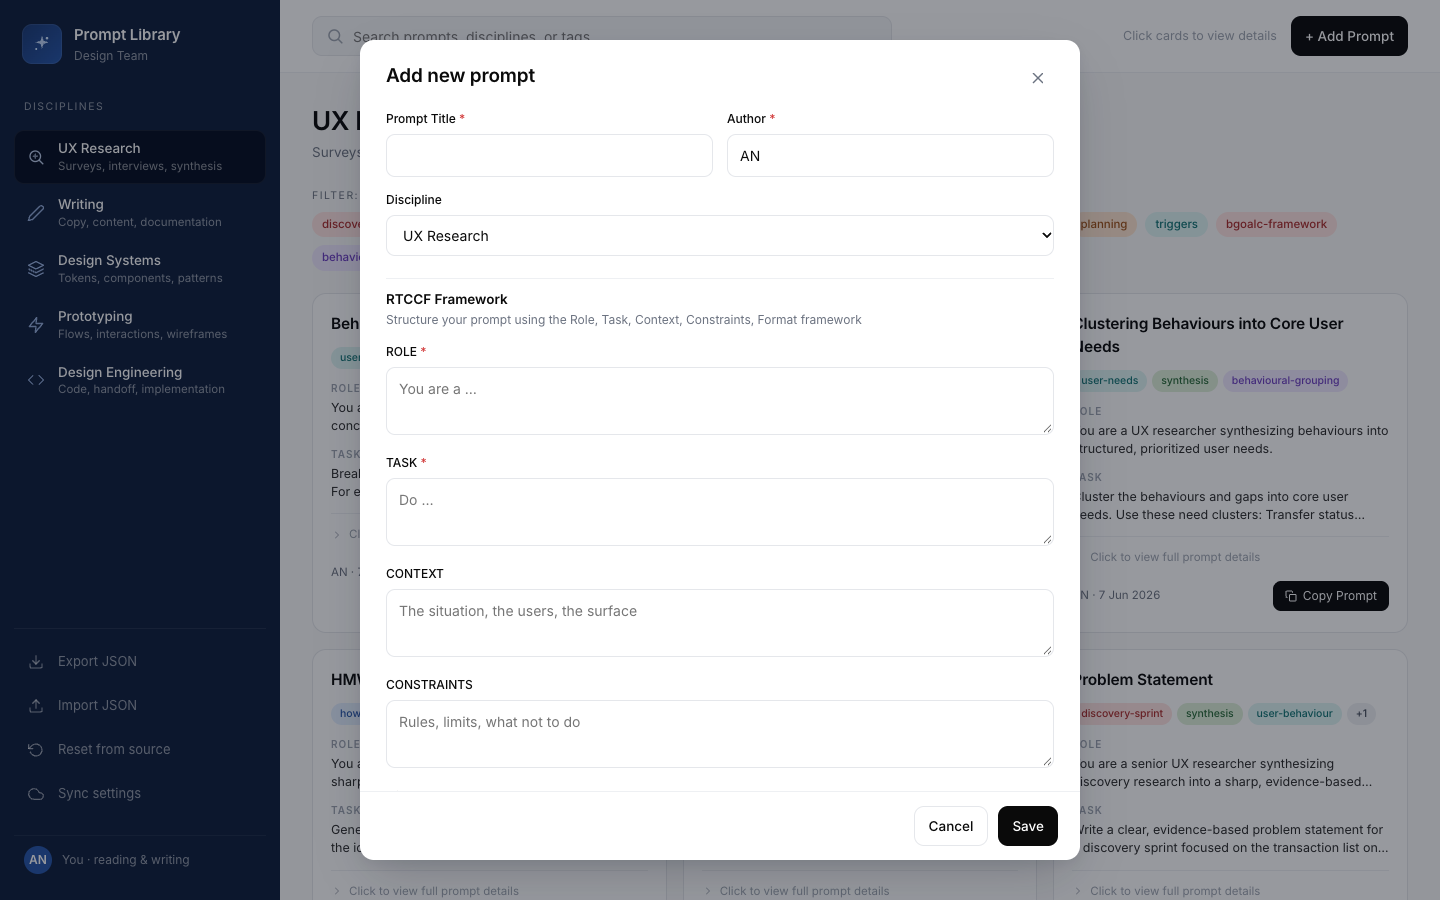
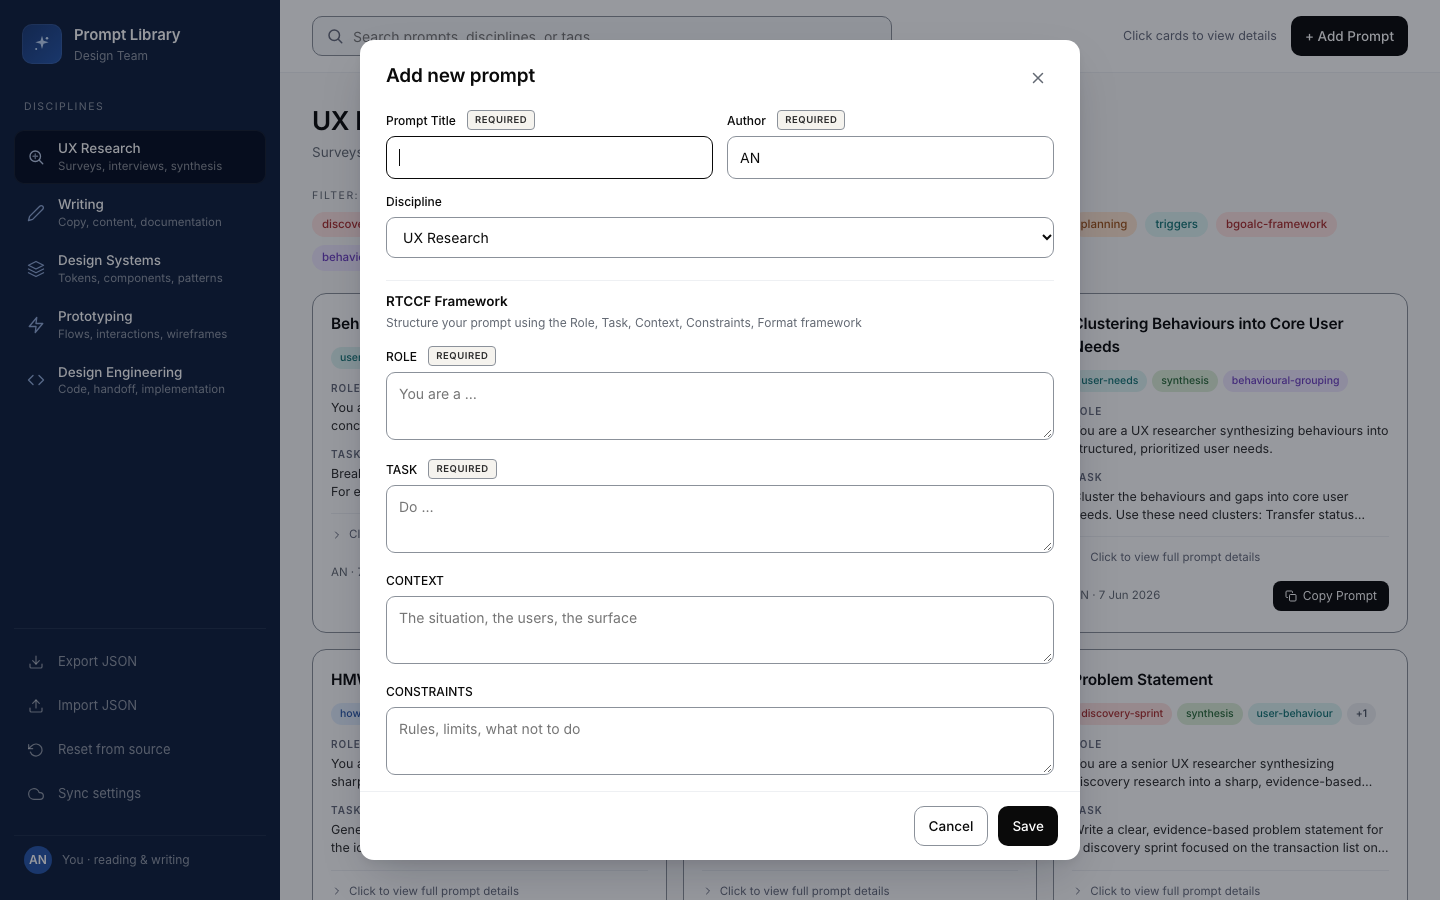
a11y: swap red-asterisk required marker for a 'Required' text tag
The red asterisk on required fields depends on color alone (WCAG 1.4.1)
and doesn't carry meaning without a legend. Replaced with a small
monospace 'Required' chip beside each required label, plus explicit
aria-required=true on the input so screen readers announce it even
when the chip is aria-hidden from the AT tree.

Also fixes a duplicate id='editTitle' (modal <h3> + input) that was
leaving <label for='editTitle'> bound to the heading instead of the
input. The modal heading is now editModalTitle; aria-labelledby and
the two JS textContent setters are updated to match.

Regenerated assets/case/pl-new/_03-desktop-add.png (headless-chrome
1440x900, ?demo=add) so the case-study screenshot matches the new UI.

diff --git a/prompt-library-app.html b/prompt-library-app.html
@@ -536,7 +536,21 @@
     color: var(--ink);
     margin-bottom: 6px;
   }
-  .field .required { color: var(--danger); }
+  .field .required-tag {
+    display: inline-block;
+    margin-left: 8px;
+    padding: 2px 7px;
+    font-family: var(--mono);
+    font-size: 9.5px;
+    font-weight: 600;
+    letter-spacing: 0.06em;
+    text-transform: uppercase;
+    color: var(--ink-2, #2b2f36);
+    background: var(--panel-warm, #f5f3ee);
+    border: 1px solid var(--rule-strong);
+    border-radius: 4px;
+    vertical-align: 2px;
+  }
   .field input[type="text"],
   .field input[type="password"],
   .field input[type="search"],
@@ -755,9 +769,9 @@
 
 <!-- EDIT MODAL -->
 <div class="overlay" id="editOverlay" aria-hidden="true">
-  <div class="modal" role="dialog" aria-modal="true" aria-labelledby="editTitle">
+  <div class="modal" role="dialog" aria-modal="true" aria-labelledby="editModalTitle">
     <header class="modal-head">
-      <h3 id="editTitle">Add New Prompt</h3>
+      <h3 id="editModalTitle">Add New Prompt</h3>
       <button class="close" data-close aria-label="Close">
         <svg viewBox="0 0 24 24" width="18" height="18" fill="none" stroke="currentColor" stroke-width="2" stroke-linecap="round"><path d="M18 6 6 18M6 6l12 12"/></svg>
       </button>
@@ -766,12 +780,12 @@
       <form id="editForm" class="form-grid" autocomplete="off">
         <div class="two-col">
           <div class="field">
-            <label for="editTitle">Prompt Title <span class="required">*</span></label>
-            <input id="editTitle" type="text" name="title" required maxlength="80" />
+            <label for="editTitle">Prompt Title <span class="required-tag" aria-hidden="true">Required</span></label>
+            <input id="editTitle" type="text" name="title" required aria-required="true" maxlength="80" />
           </div>
           <div class="field">
-            <label for="editAuthor">Author <span class="required">*</span></label>
-            <input id="editAuthor" type="text" name="author" required value="AN" maxlength="30" />
+            <label for="editAuthor">Author <span class="required-tag" aria-hidden="true">Required</span></label>
+            <input id="editAuthor" type="text" name="author" required aria-required="true" value="AN" maxlength="30" />
           </div>
         </div>
         <div class="field">
@@ -783,12 +797,12 @@
           <p>Structure your prompt using the Role, Task, Context, Constraints, Format framework</p>
         </div>
         <div class="field">
-          <label for="editRole">ROLE <span class="required">*</span></label>
-          <textarea id="editRole" name="role" required placeholder="You are a …"></textarea>
+          <label for="editRole">ROLE <span class="required-tag" aria-hidden="true">Required</span></label>
+          <textarea id="editRole" name="role" required aria-required="true" placeholder="You are a …"></textarea>
         </div>
         <div class="field">
-          <label for="editTask">TASK <span class="required">*</span></label>
-          <textarea id="editTask" name="task" required placeholder="Do …"></textarea>
+          <label for="editTask">TASK <span class="required-tag" aria-hidden="true">Required</span></label>
+          <textarea id="editTask" name="task" required aria-required="true" placeholder="Do …"></textarea>
         </div>
         <div class="field">
           <label for="editContext">CONTEXT</label>
@@ -1339,7 +1353,7 @@ function openEdit(id) {
   if (id) {
     const p = state.prompts.find(x => x.id === id);
     if (!p) return;
-    $('#editTitle').textContent = 'Edit prompt';
+    $('#editModalTitle').textContent = 'Edit prompt';
     form.title.value = p.title;
     form.author.value = p.author || 'AN';
     form.discipline.value = p.discipline;
@@ -1350,7 +1364,7 @@ function openEdit(id) {
     form.format.value = p.format || '';
     form.tags.value = (p.tags || []).join(', ');
   } else {
-    $('#editTitle').textContent = 'Add new prompt';
+    $('#editModalTitle').textContent = 'Add new prompt';
     form.discipline.value = state.discipline;
     form.author.value = 'AN';
   }

diff --git a/prompt-library.html b/prompt-library.html
@@ -500,7 +500,7 @@
         </div>
         <div class="pl-browser__canvas">
           <img src="assets/case/pl-new/_03-desktop-add.png"
-               alt="The Add Prompt modal. Fields: Prompt Title, Author, Discipline. Below, a section titled &quot;RTCCF Framework&quot; with labelled textareas for ROLE, TASK, CONTEXT, CONSTRAINTS." />
+               alt="The Add Prompt modal. Prompt Title, Author, Discipline at the top; Required tag next to each mandatory label; a section titled &quot;RTCCF Framework&quot; with labelled textareas for ROLE, TASK, CONTEXT, CONSTRAINTS, FORMAT below." />
         </div>
       </div>
     </section>
